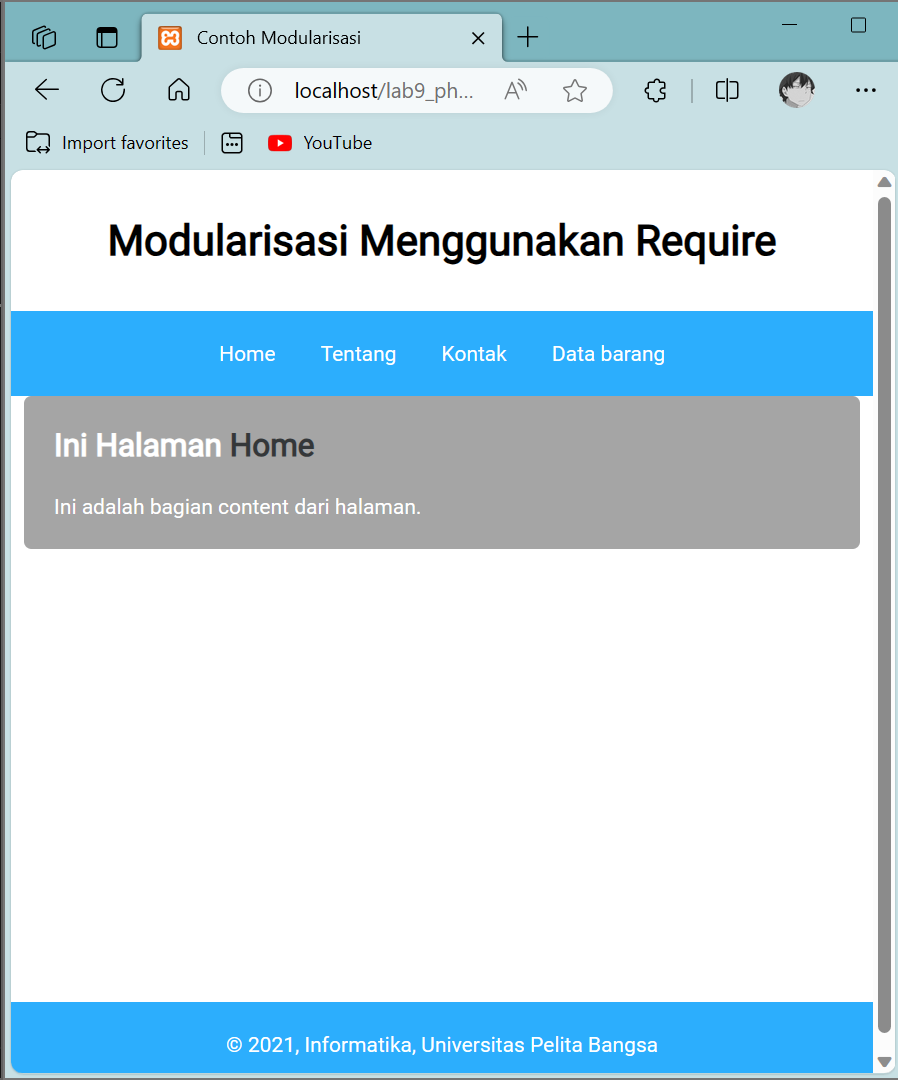
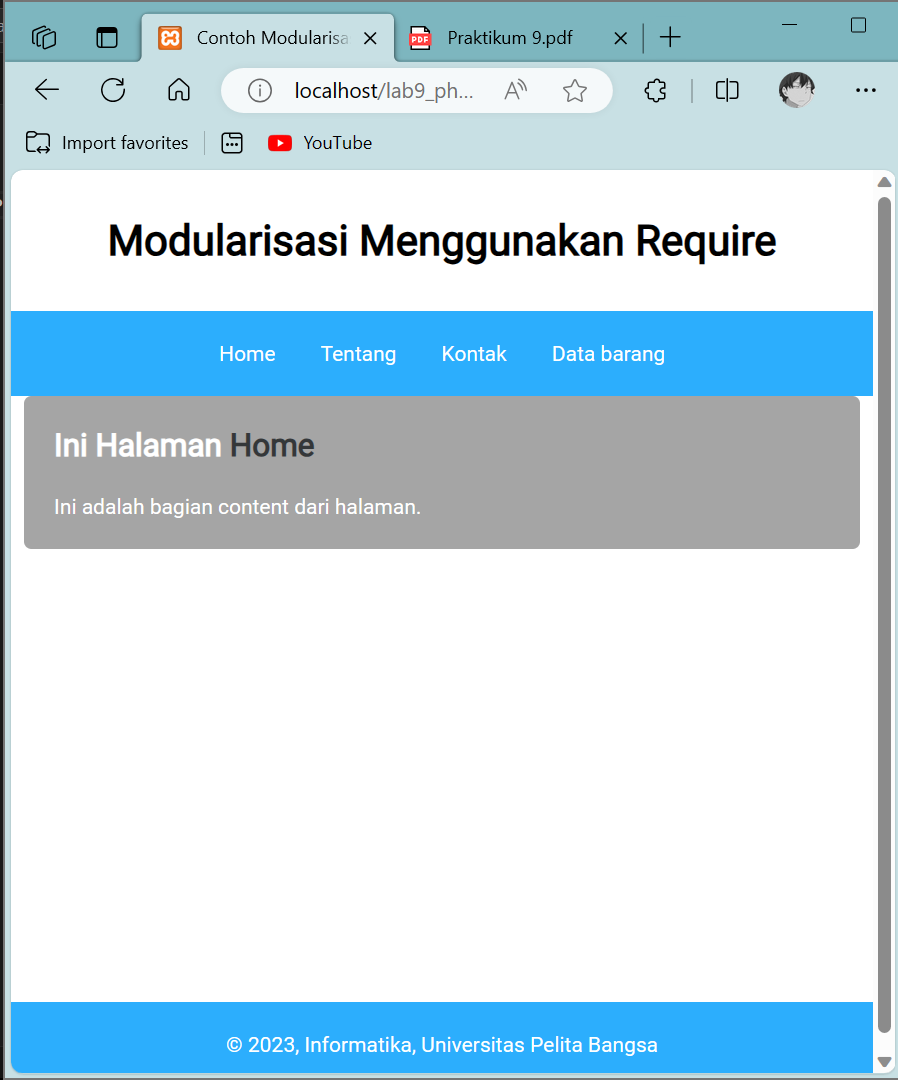
Upload Gambar

diff --git a/footer.php b/footer.php
@@ -1,5 +1,5 @@
 <footer>
-    <p>&copy; 2021, Informatika, Universitas Pelita Bangsa</p>
+    <p>&copy; 2023, Informatika, Universitas Pelita Bangsa</p>
 </footer>
 </div>
 </body>
